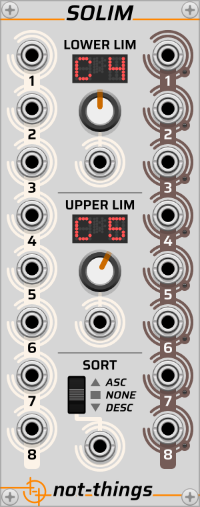
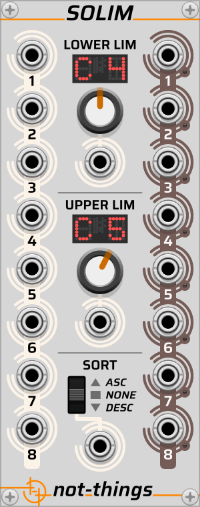
Update custom knob design on Solim to use 35px knob iso 32px knob

Changed region(s): [[0.36, 0.4734, 0.63, 0.5917], [0.36, 0.1479, 0.63, 0.2959]]

diff --git a/src/components/ntknob.cpp b/src/components/ntknob.cpp
@@ -28,8 +28,10 @@ void NTKnobDark16::themeChanged(const ThemeId& themeId) {
 		case ThemeId::VCV:
 			if (settings::preferDarkPanels) {
 				bg->setSvg(m_ntBgDarkSvg);
+				m_oldPreferDark = true;
 			} else {
 				bg->setSvg(m_ntBgLightSvg);
+				m_oldPreferDark = false;
 			}
 			break;
 		default:
@@ -46,22 +48,22 @@ void NTKnobDark16::step() {
 	}
 }
 
-NTKnob32::NTKnob32() {
+NTKnob::NTKnob(std::string lightBackroundSvg, std::string lightForegroundSvg, std::string darkBackgroundSvg, std::string darkForegroundSvg) {
 	minAngle = -0.75 * M_PI;
 	maxAngle = 0.75 * M_PI;
 
 	bg = new widget::SvgWidget;
 	fb->addChildBelow(bg, tw);
 	
-	m_ntFgLightSvg = APP->window->loadSvg(asset::plugin(pluginInstance, "res/knob-32-light.svg"));
-	m_ntFgDarkSvg = APP->window->loadSvg(asset::plugin(pluginInstance, "res/knob-32-dark.svg"));
-	m_ntBgLightSvg = APP->window->loadSvg(asset::plugin(pluginInstance, "res/knob-32-light-bg.svg"));
-	m_ntBgDarkSvg = APP->window->loadSvg(asset::plugin(pluginInstance, "res/knob-32-dark-bg.svg"));
-	setSvg(APP->window->loadSvg(asset::plugin(pluginInstance, "res/knob-32-light.svg")));
-	bg->setSvg(APP->window->loadSvg(asset::plugin(pluginInstance, "res/knob-32-light-bg.svg")));
+	m_ntFgLightSvg = APP->window->loadSvg(asset::plugin(pluginInstance, lightForegroundSvg));
+	m_ntFgDarkSvg = APP->window->loadSvg(asset::plugin(pluginInstance, darkForegroundSvg));
+	m_ntBgLightSvg = APP->window->loadSvg(asset::plugin(pluginInstance, lightBackroundSvg));
+	m_ntBgDarkSvg = APP->window->loadSvg(asset::plugin(pluginInstance, darkBackgroundSvg));
+	setSvg(m_ntFgLightSvg);
+	bg->setSvg(m_ntBgLightSvg);
 }
 
-void NTKnob32::themeChanged(const ThemeId& themeId) {
+void NTKnob::themeChanged(const ThemeId& themeId) {
 	m_themeId = themeId;
 	switch (themeId) {
 		case ThemeId::LIGHT:
@@ -91,9 +93,12 @@ void NTKnob32::themeChanged(const ThemeId& themeId) {
 	fb->setDirty();
 }
 
-void NTKnob32::step() {
+void NTKnob::step() {
 	SvgKnob::step();
 	if ((m_themeId == ThemeId::VCV) && (m_oldPreferDark != settings::preferDarkPanels)) {
 		themeChanged(ThemeId::VCV);
 	}
 }
+
+NTKnob32::NTKnob32() : NTKnob("res/knob-32-light-bg.svg", "res/knob-32-light.svg", "res/knob-32-dark-bg.svg", "res/knob-32-dark.svg") {}
+NTKnob35::NTKnob35() : NTKnob("res/knob-35-light-bg.svg", "res/knob-35-light.svg", "res/knob-35-dark-bg.svg", "res/knob-35-dark.svg") {}

diff --git a/src/modules/solim.cpp b/src/modules/solim.cpp
@@ -424,10 +424,10 @@ SolimWidget::SolimWidget(SolimModule* module): NTModuleWidget(dynamic_cast<NTMod
 		y += yDelta;
 	}
 
-	addParam(createParamCentered<NTKnob32>(Vec(75, 83), module, SolimModule::PARAM_LOWER_LIMIT));
+	addParam(createParamCentered<NTKnob35>(Vec(75, 83), module, SolimModule::PARAM_LOWER_LIMIT));
 	addInput(createInputCentered<NTPort>(Vec(75, 121.5), module, SolimModule::IN_LOWER_LIMIT));
 
-	addParam(createParamCentered<NTKnob32>(Vec(75, 203), module, SolimModule::PARAM_UPPER_LIMIT));
+	addParam(createParamCentered<NTKnob35>(Vec(75, 203), module, SolimModule::PARAM_UPPER_LIMIT));
 	addInput(createInputCentered<NTPort>(Vec(75, 241.5), module, SolimModule::IN_UPPER_LIMIT));
 
 	addParam(createParamCentered<CKSSThree>(Vec(57.5, 296), module, SolimModule::PARAM_SORT));

diff --git a/include/components/ntknob.hpp b/include/components/ntknob.hpp
@@ -17,8 +17,8 @@ struct NTKnobDark16 : app::SvgKnob, ThemeChangeListener {
 		bool m_oldPreferDark = false;
 };
 
-struct NTKnob32 : app::SvgKnob, ThemeChangeListener {
-	NTKnob32();
+struct NTKnob : app::SvgKnob, ThemeChangeListener {
+	NTKnob(std::string lightBackroundSvg, std::string lightForegroundSvg, std::string darkBackgroundSvg, std::string darkForegroundSvg);
 
 	void themeChanged(const ThemeId& theme) override;
 	void step() override;
@@ -32,4 +32,12 @@ struct NTKnob32 : app::SvgKnob, ThemeChangeListener {
 		widget::SvgWidget* bg;
 		ThemeId m_themeId;
 		bool m_oldPreferDark = false;
+};
+
+struct NTKnob32 : NTKnob {
+	NTKnob32();
+};
+
+struct NTKnob35 : NTKnob {
+	NTKnob35();
 };
